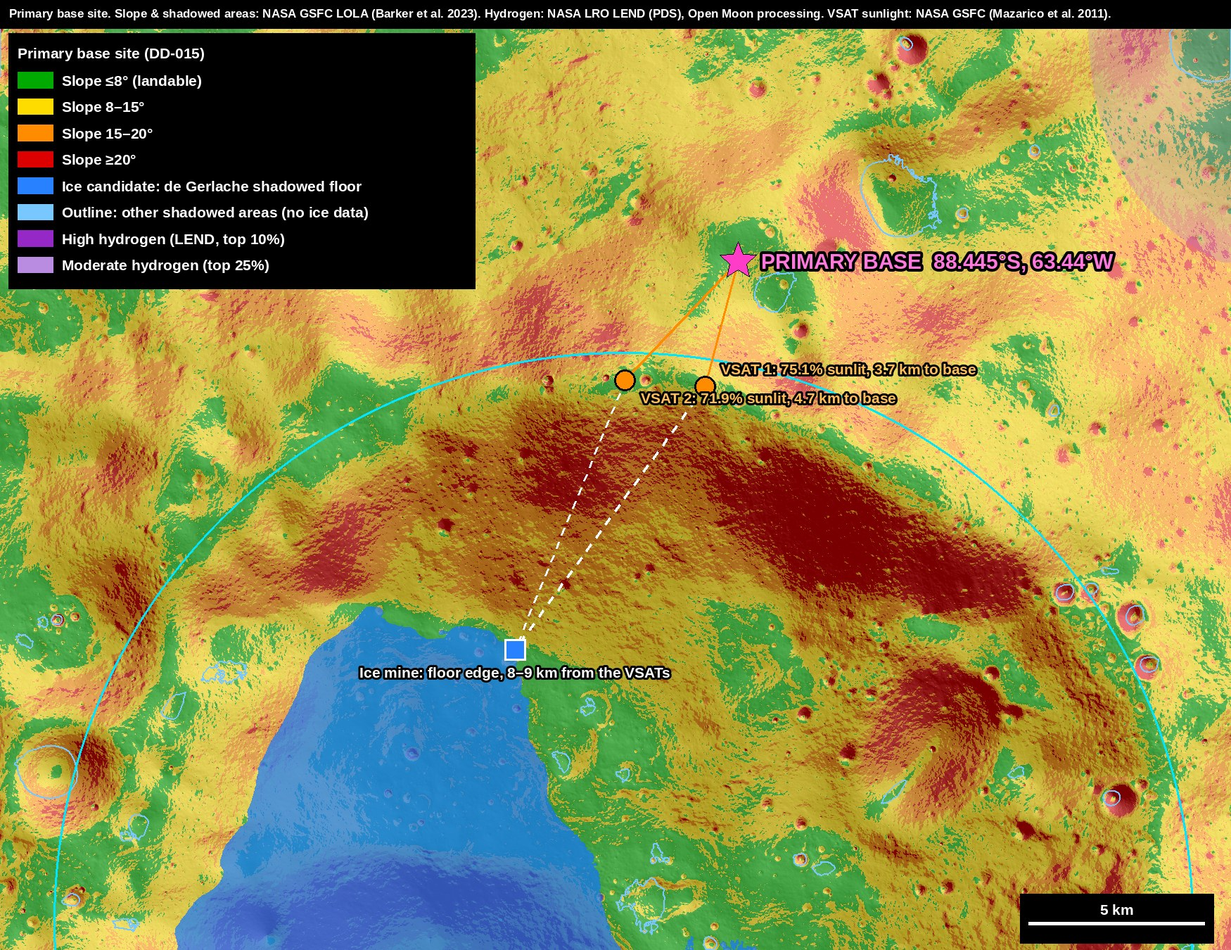
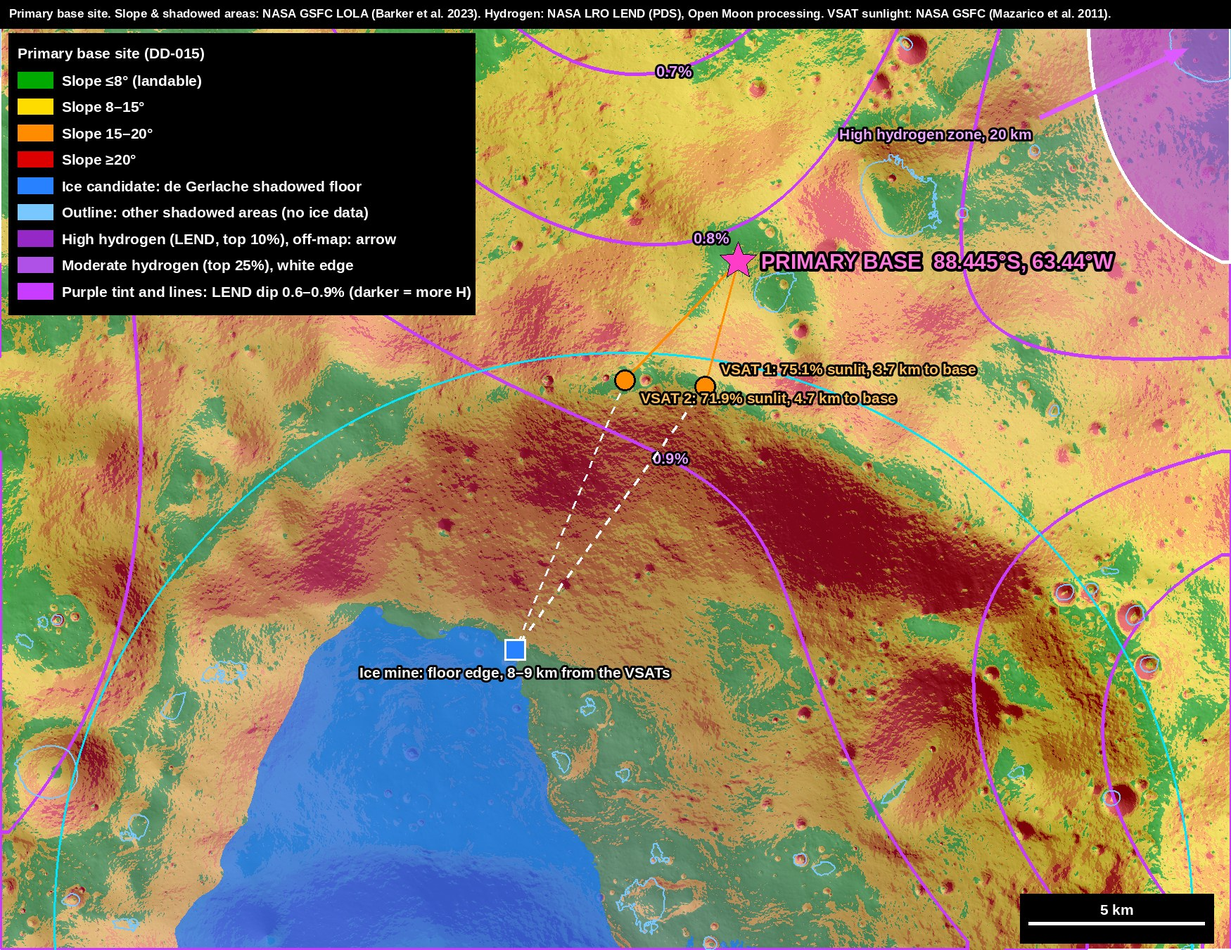
Primary site map: more visible hydrogen (contours, graded tint, arrow to the nearest high-hydrogen zone)
Claude-Session: https://claude.ai/code/session_01EMgvSv8Ki6A9jj7v8eiV3S

diff --git a/analysis/hydrogen/mk_primary.py b/analysis/hydrogen/mk_primary.py
@@ -21,8 +21,10 @@ S, Z = supp_grid(B, 500.)
 up = lambda a: np.array(Image.fromarray(a.astype('float32'), mode='F').resize((W, H), Image.BILINEAR))
 Su, Zu = up(S), up(Z)
 hi = (Su >= THR) & (Zu >= ZMIN); mod = (Su >= 0.98) & (Zu >= ZMIN) & ~hi
-rgb = np.where(hi[..., None], rgb * 0.5 + np.array([150, 40, 200]) * 0.5, rgb)
-rgb = np.where(mod[..., None], rgb * 0.75 + np.array([170, 110, 220]) * 0.25, rgb)
+tint = np.clip((Su - 0.75) / 0.35, 0, 1)[..., None] * 0.30 * (Zu >= 2)[..., None]
+rgb = rgb * (1 - tint) + np.array([170, 60, 230]) * tint
+rgb = np.where(hi[..., None], rgb * 0.35 + np.array([150, 40, 200]) * 0.65, rgb)
+rgb = np.where(mod[..., None], rgb * 0.45 + np.array([170, 70, 230]) * 0.55, rgb)
 m2p = lambda x, y: ((x - B[0]) / RES, (B[3] - y) / RES)
 # ice: de Gerlache floor (candidate) filled, other PSRs outlined
 P = pickle.load(open(PSR, 'rb'))
@@ -36,10 +38,40 @@ for gid, area, name, b, rings in P:
 cand = np.array(cand) > 0; oth = np.array(oth) > 0
 rgb = np.where(cand[..., None], rgb * 0.3 + np.array([20, 120, 255]) * 0.7, rgb)
 im = Image.fromarray(rgb.clip(0, 255).astype('uint8'))
+# hydrogen contours (LEND neutron dip) across the frame
+def edges(mask):
+    e_ = mask & ~(np.roll(mask, 1, 0) & np.roll(mask, -1, 0) & np.roll(mask, 1, 1) & np.roll(mask, -1, 1))
+    for _ in range(2): e_ = e_ | np.roll(e_, 1, 0) | np.roll(e_, 1, 1) | np.roll(e_, -1, 0) | np.roll(e_, -1, 1)
+    return e_
+a = np.array(im)
+for lv in (0.6, 0.7, 0.8, 0.9):
+    a[edges(Su >= lv)] = (200, 60, 255)
+a[edges(mod | hi)] = (255, 255, 255)
+im = Image.fromarray(a)
+CONT = [(lv, edges(Su >= lv)) for lv in (0.6, 0.7, 0.8, 0.9)]
 e = oth & ~(np.roll(oth, 1, 0) & np.roll(oth, -1, 0) & np.roll(oth, 1, 1) & np.roll(oth, -1, 1))
 e = e | np.roll(e, 1, 0) | np.roll(e, 1, 1)
 a = np.array(im); a[e] = (120, 200, 255); im = Image.fromarray(a); dr = ImageDraw.Draw(im)
 k = W / 1400; F = font(24 * k); Fs = font(17 * k)
+for lv, em in CONT:  # label each contour once, at its point nearest the frame centre
+    ys_, xs_ = np.nonzero(em)
+    if len(xs_) == 0: continue
+    i_ = np.argmin((xs_ - W * 0.6) ** 2 + (ys_ - H * 0.35) ** 2)
+    dr.text((xs_[i_], ys_[i_]), '%.1f%%' % lv, font=font(18 * k), fill=(230, 160, 255), anchor='mm', stroke_width=3, stroke_fill=(0, 0, 0))
+# arrow to the nearest high-hydrogen zone
+FS = np.load('focus_S.npy'); FZ = np.load('focus_Z.npy'); from render import px2m as _p
+fx0_, fy1_ = _p(292, 518); jj_, ii_ = np.nonzero((FS >= THR) & (FZ >= ZMIN))
+HXs = fx0_ + (ii_ + 0.5) * 1000; HYs = fy1_ - (jj_ + 0.5) * 1000
+dd = np.hypot(HXs - base[0], HYs - base[1]); n_ = dd.argmin(); tx, ty = HXs[n_], HYs[n_]
+ux, uy = (tx - base[0]) / dd[n_], (ty - base[1]) / dd[n_]
+# point where the ray from the base leaves the frame
+tmax = min([t for t in ((B[2] - base[0]) / ux if ux > 0 else (B[0] - base[0]) / ux if ux < 0 else 1e9,
+                        (B[3] - base[1]) / uy if uy > 0 else (B[1] - base[1]) / uy if uy < 0 else 1e9) if t > 0])
+ex, ey = m2p(base[0] + ux * (tmax - 1500), base[1] + uy * (tmax - 1500)); sx_, sy_ = m2p(base[0] + ux * (tmax - 6000), base[1] + uy * (tmax - 6000))
+dr.line([(sx_, sy_), (ex, ey)], fill=(220, 90, 255), width=int(6 * k))
+ang = math.atan2(ey - sy_, ex - sx_); hl = 22 * k
+dr.polygon([(ex + 6 * k * math.cos(ang), ey + 6 * k * math.sin(ang)), (ex - hl * math.cos(ang - 0.45), ey - hl * math.sin(ang - 0.45)), (ex - hl * math.cos(ang + 0.45), ey - hl * math.sin(ang + 0.45))], fill=(220, 90, 255))
+dr.text((sx_ - 10 * k, sy_ + 18 * k), 'High hydrogen zone, %.0f km' % (dd[n_] / 1000), font=Fs, fill=(235, 170, 255), anchor='rm', stroke_width=3, stroke_fill=(0, 0, 0))
 # features
 x, y = m2p(*lonlat2m(-88.5, -87.1)); rr = 16200 / RES
 dr.arc((x - rr, y - rr, x + rr, y + rr), 0, 360, fill=(0, 230, 255), width=int(3 * k))
@@ -71,7 +103,7 @@ dr.text((bx + 26 * k, by), 'PRIMARY BASE  88.445°S, 63.44°W', font=F, fill=(25
 # legend
 rows = [((0, 170, 0), 'Slope ≤8° (landable)'), ((255, 220, 0), 'Slope 8–15°'), ((255, 140, 0), 'Slope 15–20°'), ((220, 0, 0), 'Slope ≥20°'),
         ((40, 130, 255), 'Ice candidate: de Gerlache shadowed floor'), ((120, 200, 255), 'Outline: other shadowed areas (no ice data)'),
-        ((150, 40, 200), 'High hydrogen (LEND, top 10%)'), ((185, 140, 225), 'Moderate hydrogen (top 25%)')]
+        ((150, 40, 200), 'High hydrogen (LEND, top 10%), off-map: arrow'), ((175, 80, 230), 'Moderate hydrogen (top 25%), white edge'), ((200, 60, 255), 'Purple tint and lines: LEND dip 0.6–0.9% (darker = more H)')]
 lx, ly = int(20 * k), int(48 * k)
 dr.rectangle((lx - 10 * k, ly - 10 * k, lx + 520 * k, ly + (len(rows) * 30 + 40) * k), fill=(0, 0, 0))
 dr.text((lx, ly + 12 * k), 'Primary base site (DD-015)', font=Fs, fill='white', anchor='lm'); yy = ly + 34 * k

diff --git a/_milestones/m00-site-selection.md b/_milestones/m00-site-selection.md
@@ -412,7 +412,7 @@ The primary base and only what serves it: slope classes everywhere, the de Gerla
 
 - **The two nearest VSAT sites** are 3.7 km (75.1 % sunlit) and 4.7 km (71.9 %) from the base, on the crater rim, and are also the ice-mining VSATs below.
 - **The cables to the mine cross the crater wall,** which is mostly steeper than 20° (red). Laying them needs a route down the wall that the cable rover can drive (open).
-- **Hydrogen:** no high-hydrogen ground in this frame; only a little moderate hydrogen at the top-right corner. The nearest high-hydrogen zone is about 20 km away.
+- **Hydrogen:** purple lines and tint show the LEND neutron dip (0.6–0.9 %; more dip means more hydrogen). It rises from about 0.8 % at the base to 0.9 % along the crater rim and the cable route to the mine. Moderate hydrogen (white edge) reaches the top-right corner, and the arrow points to the nearest high-hydrogen zone, about 20 km from the base. LEND cells are about 15 km, so these are regional trends, not crater-level detail.
 
 ### Ice mining for the primary site (ESTIMATE)
 
